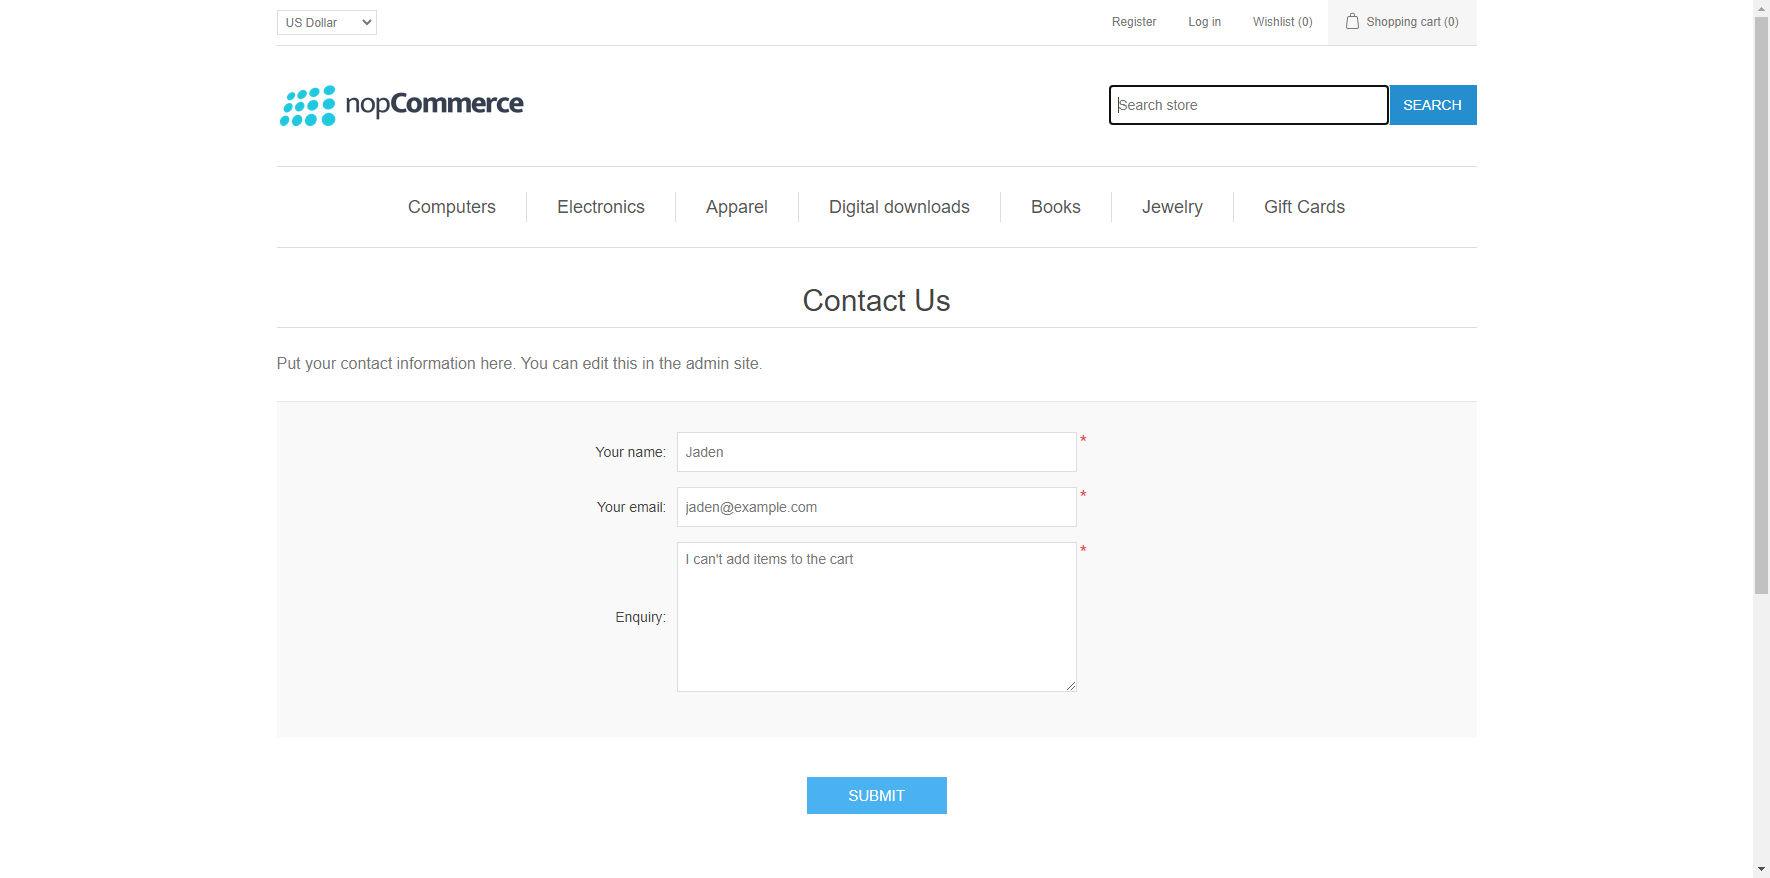
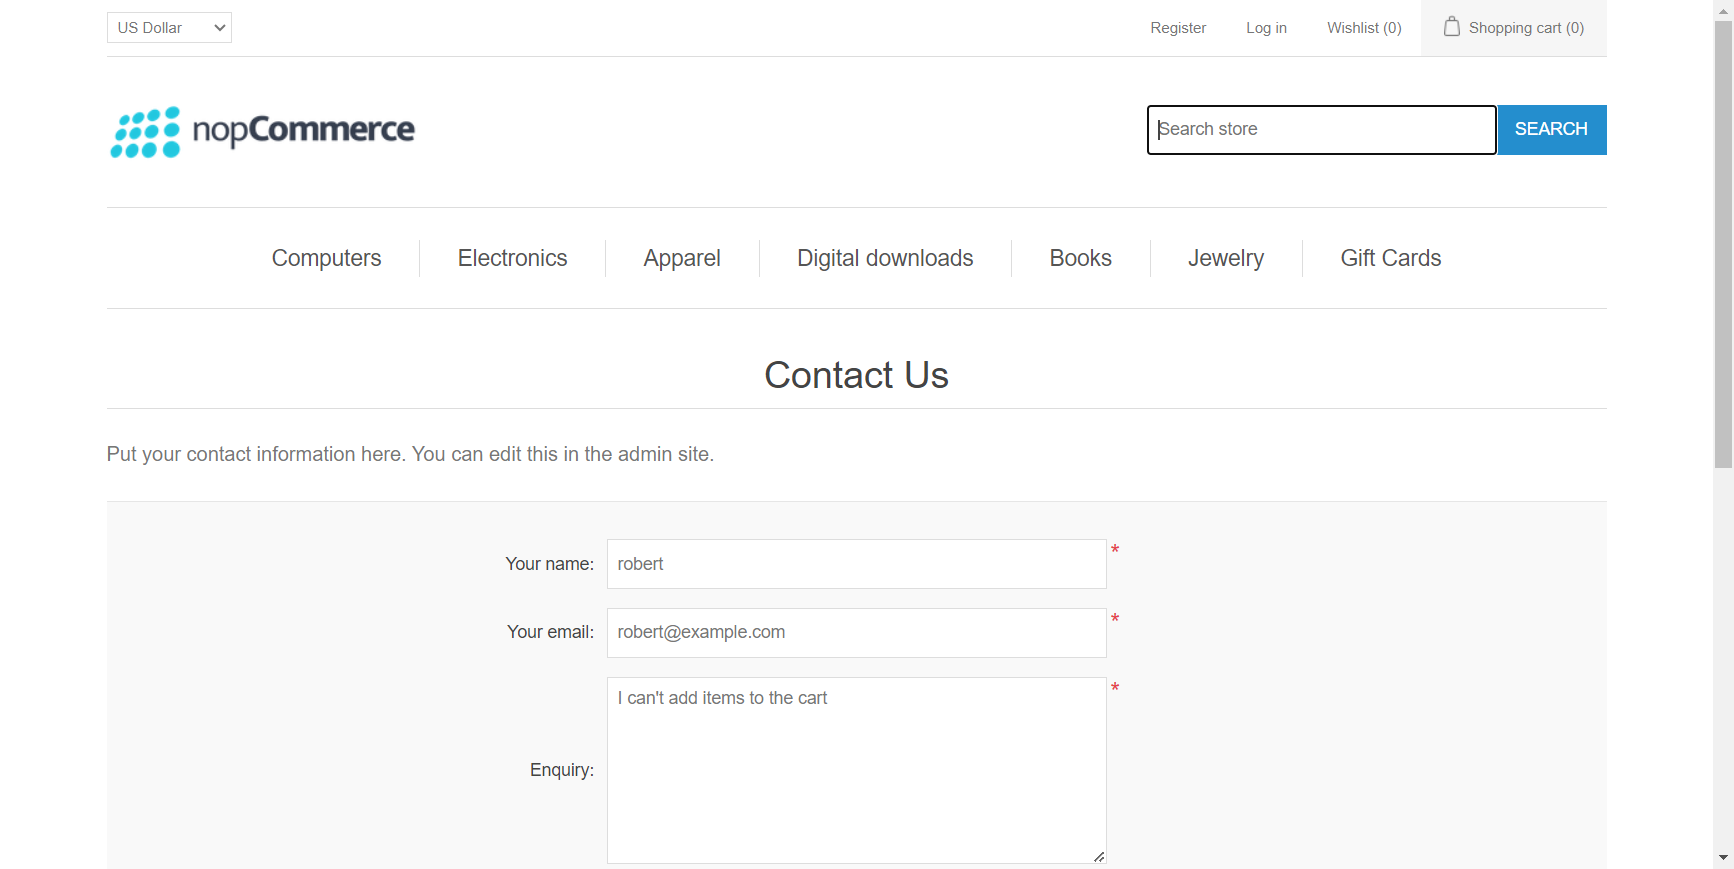
edit

diff --git a/test-output/All Test Suite/Regression Suite.html b/test-output/All Test Suite/Regression Suite.html
@@ -443,10 +443,10 @@ Driver info: driver.version: RemoteWebDriver
 <td>1</td>
 <td>tests.T02LoginTest@5ef5c734</td></tr>
 <tr>
-<td title='tests.T01RegistrationTestWithJavaFaker.userRegistration()'><b>userRegistration</b><br>Test class: tests.T01RegistrationTestWithJavaFaker</td>
+<td title='tests.T01RegistrationTest.userRegistration()'><b>userRegistration</b><br>Test class: tests.T01RegistrationTest</td>
 <td></td>
 <td>1</td>
-<td>tests.T01RegistrationTestWithJavaFaker@6f44a157</td></tr>
+<td>tests.T01RegistrationTest@6f44a157</td></tr>
 </table><p>
 <table width='100%' border='1' class='invocation-skipped'>
 <tr><td colspan='4' align='center'><b>SKIPPED TESTS</b></td></tr>

diff --git a/src/test/java/tests/T15RegisteredUserCheckoutProductTest.java b/src/test/java/tests/T15RegisteredUserCheckoutProductTest.java
@@ -1,6 +1,7 @@
 package tests;
 
 import base.TestBase;
+import com.github.javafaker.Faker;
 import org.openqa.selenium.WebDriver;
 import org.openqa.selenium.support.ui.Wait;
 import org.openqa.selenium.support.ui.WebDriverWait;
@@ -20,10 +21,11 @@ public class T15RegisteredUserCheckoutProductTest extends TestBase {
     P13CheckoutPage checkoutObject;
     P14OrderDetailsPage orderDetailsObject;
     P12ShoppingCartPage shoppingCartObject;
-    String fName = "Robert";
-    String lName = "John";
-    String email = "test131@example.com";
-    String password = "123456";
+    Faker fakeData = new Faker();
+    String firstname = "Robert";
+    String lastname = "John";
+    String email = fakeData.internet().emailAddress();
+    String password = fakeData.number().digits(8).toString();
     String billingFirstName = "";
     String billingLastName = "";
     String billingEmail = "";
@@ -33,13 +35,14 @@ public class T15RegisteredUserCheckoutProductTest extends TestBase {
     String billingPostalCode = "12568";
     String billingPhoneNumber = "0100000000";
 
+
     @Test(priority = 1, alwaysRun = true)
     public void UserRegister() {
         homeObject = new P01HomePage(driver);
         registerObject = new P02RegistrationPage(driver);
 
         homeObject.openRegisterPage();
-        registerObject.userRegistration(fName, lName, email, password);
+        registerObject.userRegistration(firstname, lastname, email, password);
     }
 
     @Test(priority = 2)
@@ -71,7 +74,7 @@ public class T15RegisteredUserCheckoutProductTest extends TestBase {
     }
 
     @Test(priority = 5)
-    public void checkoutAsRegisteredUser() {
+    public void checkoutAsRegisteredUser() throws InterruptedException {
         checkoutObject = new P13CheckoutPage(driver);
         orderDetailsObject = new P14OrderDetailsPage(driver);
 
@@ -97,6 +100,7 @@ public class T15RegisteredUserCheckoutProductTest extends TestBase {
         wait = new WebDriverWait(driver, Duration.ofSeconds(5));
         wait.until(d -> driver.findElement(orderDetailsObject.pdfInvoiceLink).isDisplayed());
         orderDetailsObject.DownloadPDFInvoice();
+        Thread.sleep(3000);
         orderDetailsObject.PrintOrderDetails();
     }
 }

diff --git a/src/test/java/tests/T08ChangeCurrencyTest.java b/src/test/java/tests/T08ChangeCurrencyTest.java
@@ -1,10 +1,9 @@
 package tests;
 
 import base.TestBase;
-import org.openqa.selenium.ElementNotInteractableException;
 import org.openqa.selenium.WebDriver;
-import org.openqa.selenium.support.ui.FluentWait;
 import org.openqa.selenium.support.ui.Wait;
+import org.openqa.selenium.support.ui.WebDriverWait;
 import org.testng.annotations.Test;
 import pages.P01HomePage;
 import pages.P06SearchPage;
@@ -27,22 +26,15 @@ public class T08ChangeCurrencyTest extends TestBase {
     }
 
     @Test(priority = 2)
-    public void UserCanSearchWithAutoSuggest() {
+    public void UserCanSearchWithAutoSuggest() throws InterruptedException {
         searchObject = new P06SearchPage(driver);
         detailsObject = new P07ProductDetailsPage(driver);
 
+        Thread.sleep(500);
         searchObject.ProductSearchUsingAutoSuggest("mac");
 
-        Wait<WebDriver> wait =
-                new FluentWait<>(driver)
-                        .withTimeout(Duration.ofSeconds(5))
-                        .ignoring(ElementNotInteractableException.class);
-
-        wait.until(
-                d -> {
-                    driver.findElement(detailsObject.productPriceLbl).isDisplayed();
-                    return true;
-                });
+        Wait<WebDriver> wait = new WebDriverWait(driver, Duration.ofSeconds(2));
+        wait.until(d -> driver.findElement(detailsObject.productPriceLbl).isDisplayed());
 
         System.out.println(driver.findElement(detailsObject.productPriceLbl).getText());
         assertTrue(driver.findElement(detailsObject.productPriceLbl).getText()

diff --git a/src/test/java/tests/T04MyAccountTest.java b/src/test/java/tests/T04MyAccountTest.java
@@ -1,6 +1,7 @@
 package tests;
 
 import base.TestBase;
+import com.github.javafaker.Faker;
 import org.testng.annotations.Test;
 import pages.P01HomePage;
 import pages.P02RegistrationPage;
@@ -15,11 +16,13 @@ public class T04MyAccountTest extends TestBase {
     P02RegistrationPage registerObject;
     P03LoginPage loginObject;
     P05MyAccountPage p05MyAccountPageObject;
-    String fName = "Robert";
-    String lName = "John";
-    String email = "test100@example.com";
-    String oldPassword = "123456";
-    String newPassword = "123456789";
+
+    Faker fakeData = new Faker();
+    String firstname = fakeData.name().firstName();
+    String lastname = fakeData.name().firstName();
+    String email = fakeData.internet().emailAddress();
+    String oldPassword = fakeData.number().digits(8).toString();
+    String newPassword = fakeData.number().digits(8).toString();
 
     @Test(priority = 1)
     public void UserRegisterSuccessfully() {
@@ -27,7 +30,7 @@ public class T04MyAccountTest extends TestBase {
         registerObject = new P02RegistrationPage(driver);
 
         homeObject.openRegisterPage();
-        registerObject.userRegistration(fName, lName, email, oldPassword);
+        registerObject.userRegistration(firstname, lastname, email, oldPassword);
 
         assertTrue(driver.findElement(registerObject.resultMsg).getText()
                 .contains("Your registration completed"));

diff --git a/src/test/java/tests/T09AddProductReviewTest.java b/src/test/java/tests/T09AddProductReviewTest.java
@@ -1,6 +1,7 @@
 package tests;
 
 import base.TestBase;
+import com.github.javafaker.Faker;
 import org.testng.annotations.Test;
 import pages.*;
 
@@ -12,10 +13,11 @@ public class T09AddProductReviewTest extends TestBase {
     P03LoginPage loginObject;
     P06SearchPage searchObject;
     P09AddProductReviewPage reviewObject;
-    String fName = "Robert";
-    String lName = "John";
-    String email = "test102@example.com";
-    String password = "123456";
+    Faker fakeData = new Faker();
+    String firstname = fakeData.name().firstName();
+    String lastname = fakeData.name().lastName();
+    String email = fakeData.internet().emailAddress();
+    String password = fakeData.number().digits(8).toString();
     String reviewTitle = "Recommend the product";
     String reviewTxtBox = "This product helped me so much";
 
@@ -25,7 +27,7 @@ public class T09AddProductReviewTest extends TestBase {
         registerObject = new P02RegistrationPage(driver);
 
         homeObject.openRegisterPage();
-        registerObject.userRegistration(fName, lName, email, password);
+        registerObject.userRegistration(firstname, lastname, email, password);
 
         assertTrue(driver.findElement(registerObject.resultMsg).getText()
                 .contains("Your registration completed"));

diff --git a/src/test/java/tests/T02LoginTest.java b/src/test/java/tests/T02LoginTest.java
@@ -1,6 +1,7 @@
 package tests;
 
 import base.TestBase;
+import com.github.javafaker.Faker;
 import org.testng.annotations.Test;
 import pages.P01HomePage;
 import pages.P02RegistrationPage;
@@ -13,10 +14,11 @@ public class T02LoginTest extends TestBase {
     P01HomePage homeObject;
     P02RegistrationPage registerObject;
     P03LoginPage loginObject;
-    String fName = "Robert";
-    String lName = "John";
-    String email = "test132@example.com";
-    String password = "123456";
+    Faker fakeData = new Faker();
+    String firstname = fakeData.name().firstName();
+    String lastname = fakeData.name().lastName();
+    String email = fakeData.internet().emailAddress();
+    String password = fakeData.number().digits(8).toString();
 
     @Test(priority = 1)
     public void userRegistration() {
@@ -24,7 +26,7 @@ public class T02LoginTest extends TestBase {
         registerObject = new P02RegistrationPage(driver);
 
         homeObject.openRegisterPage();
-        registerObject.userRegistration(fName, lName, email, password);
+        registerObject.userRegistration(firstname, lastname, email, password);
 
         assertTrue(driver.findElement(registerObject.resultMsg).getText()
                 .contains("Your registration completed"));

diff --git a/src/test/java/tests/T07EmailFriendTest.java b/src/test/java/tests/T07EmailFriendTest.java
@@ -1,6 +1,7 @@
 package tests;
 
 import base.TestBase;
+import com.github.javafaker.Faker;
 import org.testng.annotations.Test;
 import pages.*;
 
@@ -13,11 +14,12 @@ public class T07EmailFriendTest extends TestBase {
     P06SearchPage searchObject;
     P08EmailFriendPage emailFriendObject;
 
-    String fName = "Robert";
-    String lName = "John";
-    String email = "test90@example.com";
+    Faker fakeData = new Faker();
+    String firstname = fakeData.name().firstName();
+    String lastname = fakeData.name().lastName();
+    String email = fakeData.internet().emailAddress();
     String personalMsg = "This product is very good for you";
-    String password = "123456";
+    String password = fakeData.number().digits(8).toString();
 
     @Test(priority = 1)
     public void userRegistration() {
@@ -25,7 +27,7 @@ public class T07EmailFriendTest extends TestBase {
         registerObject = new P02RegistrationPage(driver);
 
         homeObject.openRegisterPage();
-        registerObject.userRegistration(fName, lName, email, password);
+        registerObject.userRegistration(firstname, lastname, email, password);
 
         assertTrue(driver.findElement(registerObject.resultMsg)
                 .getText()

diff --git a/src/test/java/tests/T12AddProductToCompareTest_Error.java b/src/test/java/tests/T12AddProductToCompareTest_Error.java
@@ -7,7 +7,7 @@ import pages.P11ComparePage;
 
 import static org.testng.Assert.assertTrue;
 
-public class T12AddProductToCompareTest extends TestBase {
+public class T12AddProductToCompareTest_Error extends TestBase {
     P06SearchPage searchObject;
     P11ComparePage compareObject;
     String firstProduct = "Apple MacBook Pro 13-inch";
@@ -36,8 +36,8 @@ public class T12AddProductToCompareTest extends TestBase {
 
         driver.navigate().to(getBaseUrl() + "/compareproducts");
 
-        assertTrue(driver.findElement(compareObject.firstProductName).getText().contains("Asus"));
-        assertTrue(driver.findElement(compareObject.secondProductName).getText().contains("Apple"));
+        assertTrue(driver.findElement(compareObject.firstProductName).getText().contains("Apple"));
+        assertTrue(driver.findElement(compareObject.secondProductName).getText().contains("Asus"));
 
         compareObject.compareProducts();
     }

diff --git a/src/test/java/tests/T14GuestUserCheckoutProductTest.java b/src/test/java/tests/T14GuestUserCheckoutProductTest.java
@@ -1,6 +1,7 @@
 package tests;
 
 import base.TestBase;
+import com.github.javafaker.Faker;
 import org.testng.annotations.Test;
 import pages.P06SearchPage;
 import pages.P12ShoppingCartPage;
@@ -12,9 +13,11 @@ public class T14GuestUserCheckoutProductTest extends TestBase {
     P06SearchPage searchObject;
     P12ShoppingCartPage shoppingCartObject;
     P13CheckoutPage checkoutObject;
-    String billingFirstName = "ahmed";
-    String billingLastName = "ahmed";
-    String billingEmail = "ahmed@example.com";
+
+    Faker fakeData = new Faker();
+    String billingFirstName = fakeData.name().firstName();
+    String billingLastName = fakeData.name().lastName();
+    String billingEmail = fakeData.internet().emailAddress();
     String billingCountry = "Egypt";
     String billingCity = "Giza";
     String billingAddress1 = "Giza";

diff --git a/src/test/java/tests/T01RegistrationTest.java b/src/test/java/tests/T01RegistrationTest.java
@@ -8,7 +8,7 @@ import pages.P02RegistrationPage;
 
 import static org.testng.Assert.assertTrue;
 
-public class T01RegistrationTestWithJavaFaker extends TestBase {
+public class T01RegistrationTest extends TestBase {
 
     P01HomePage homeObject;
     P02RegistrationPage registerObject;
@@ -27,11 +27,6 @@ public class T01RegistrationTestWithJavaFaker extends TestBase {
 
         homeObject.openRegisterPage();
         registerObject.userRegistration(firstname, lastname, email, password);
-
-        System.out.println(firstname);
-        System.out.println(lastname);
-        System.out.println(email);
-        System.out.println(password);
 
         assertTrue(driver.findElement(registerObject.resultMsg).getText()
                 .contains("Your registration completed"));

diff --git a/src/test/java/tests/T03ContactUsTest_ErrorUnexpectedAlert.java b/src/test/java/tests/T03ContactUsTest_ErrorUnexpectedAlert.java
@@ -7,11 +7,11 @@ import pages.P04ContactUsPage;
 
 import static org.testng.Assert.assertTrue;
 
-public class T03ContactUsTest extends TestBase {
+public class T03ContactUsTest_ErrorUnexpectedAlert extends TestBase {
     P01HomePage homeObject;
     P04ContactUsPage contactUsObject;
-    String name = "Jaden";
-    String email = "jaden@example.com";
+    String name = "robert";
+    String email = "robert@example.com";
     String inquiry = "I can't add items to the cart";
 
     @Test

diff --git a/src/main/java/pages/P01HomePage.java b/src/main/java/pages/P01HomePage.java
@@ -17,8 +17,7 @@ public class P01HomePage extends PageBase {
 
     By currencyDDL = By.id("customerCurrency");
     By registerLink = By.linkText("Register");
-
-    public By loginLink = By.linkText("Log in");
+    public By loginLink = By.cssSelector("a.ico-login");
     By contactUsLink = By.xpath("//a[@href=\"/contactus\"]");
     By computerMenu = By.linkText("Computers");
     By notebooksMenu = By.linkText("Notebooks");
